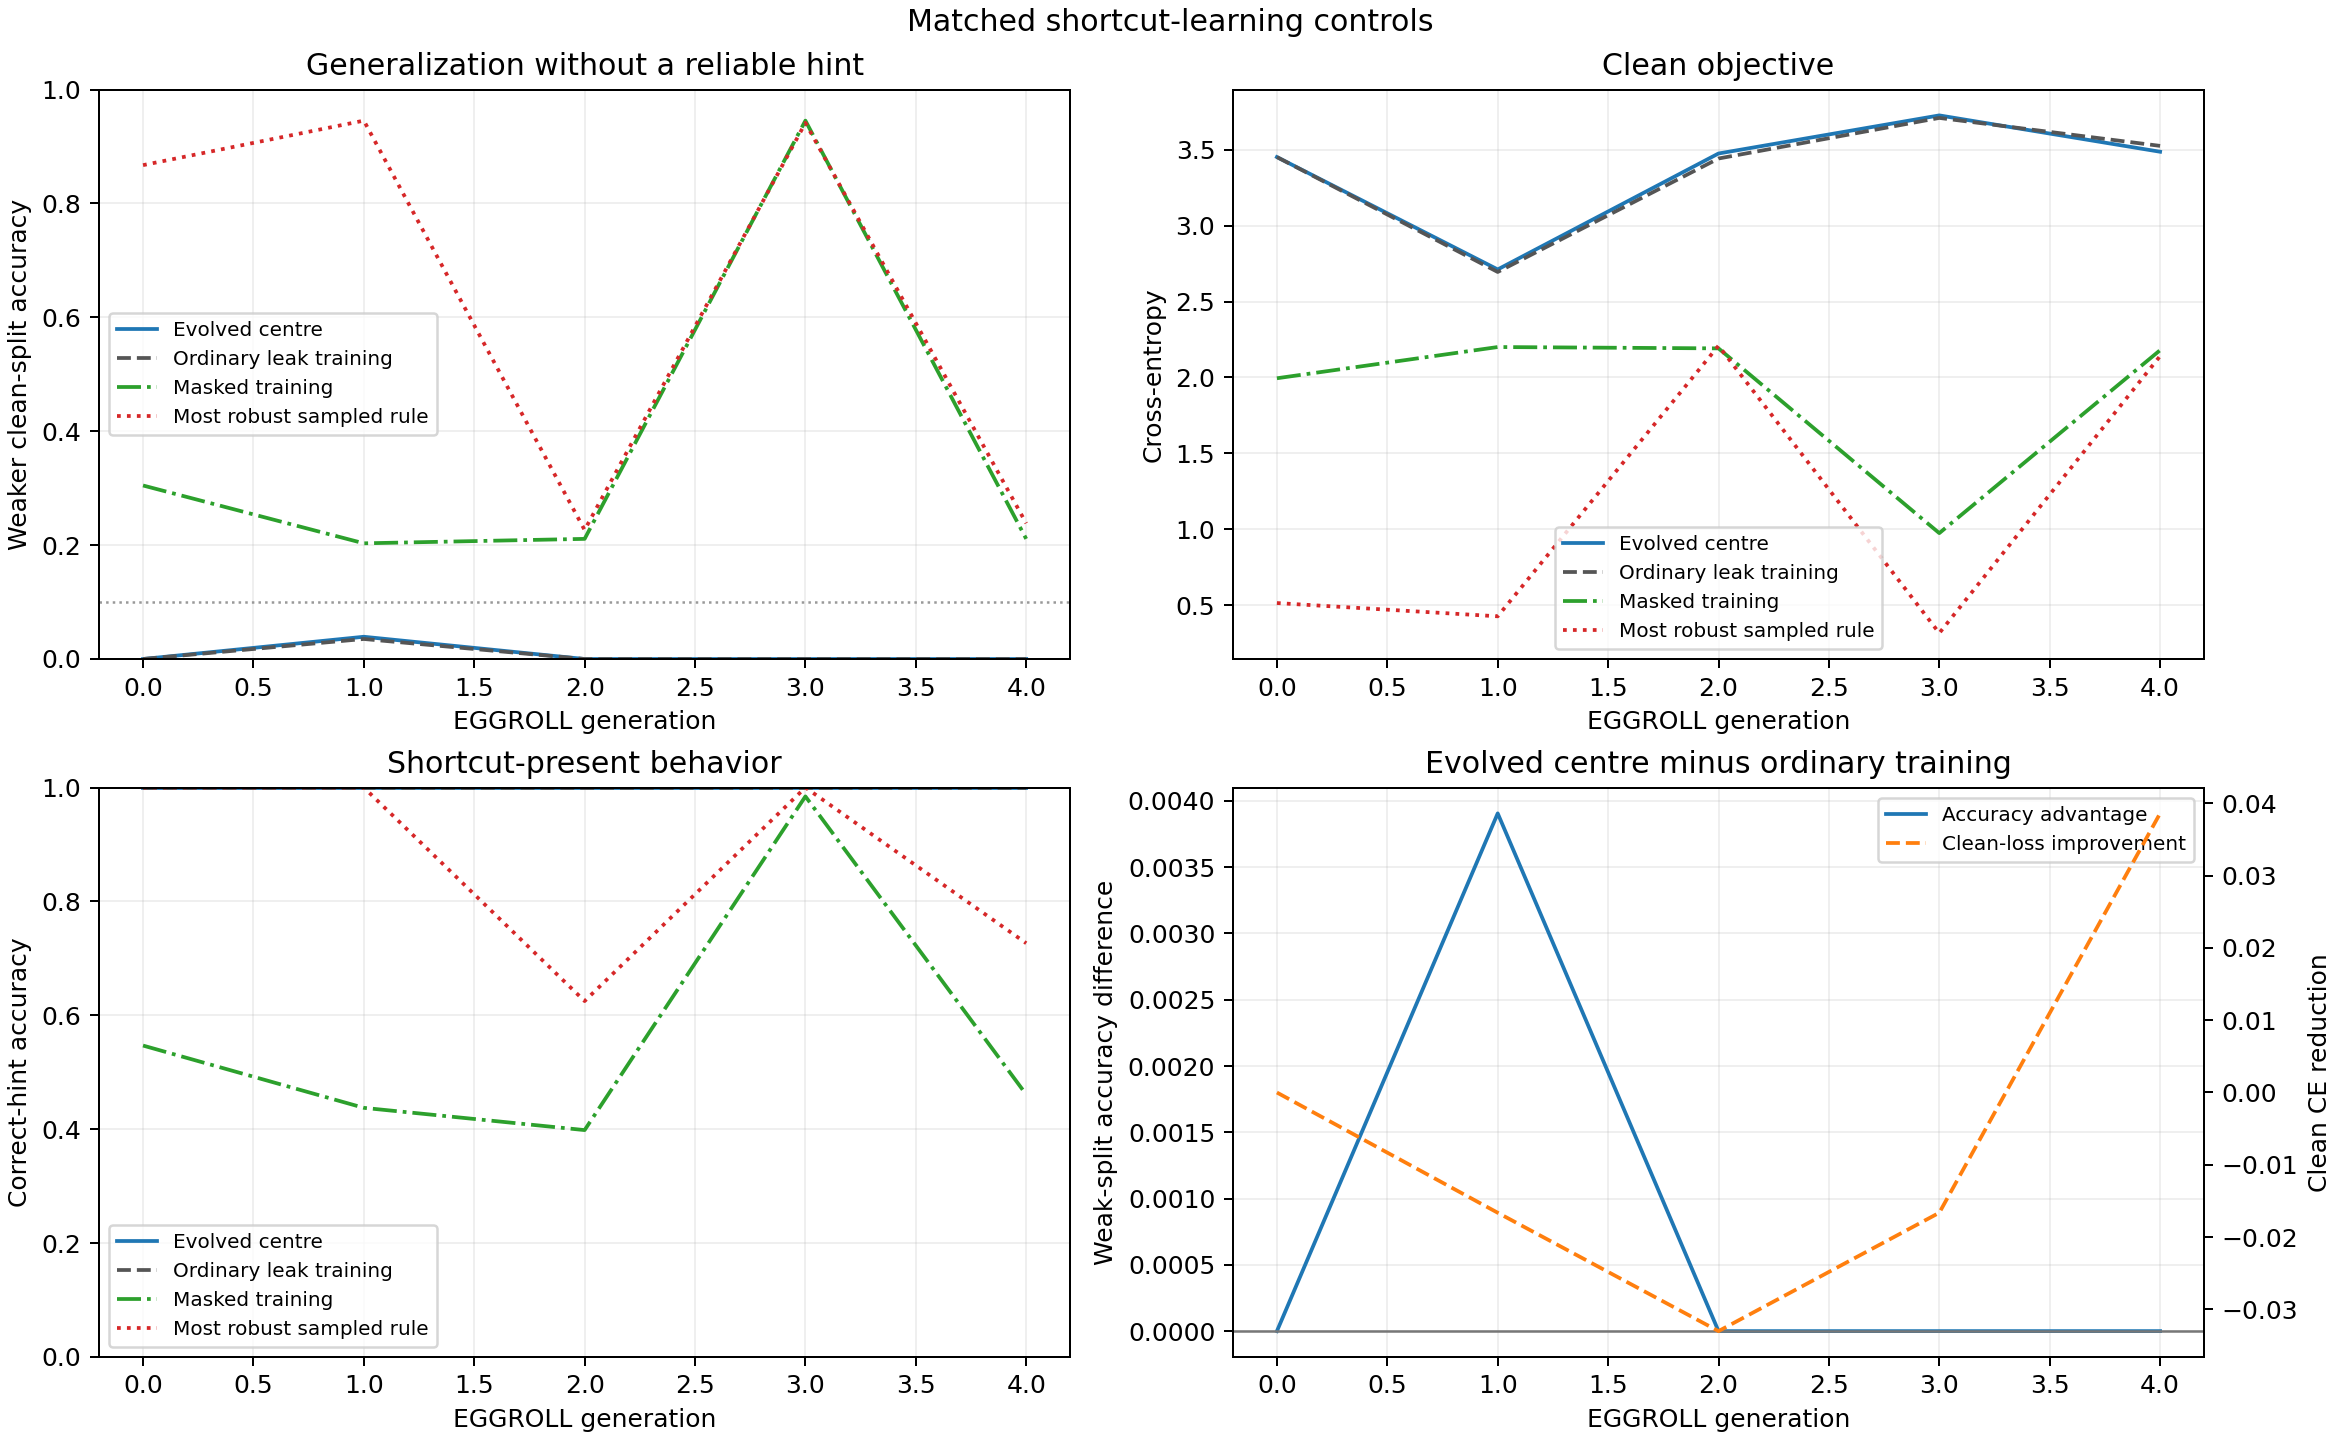
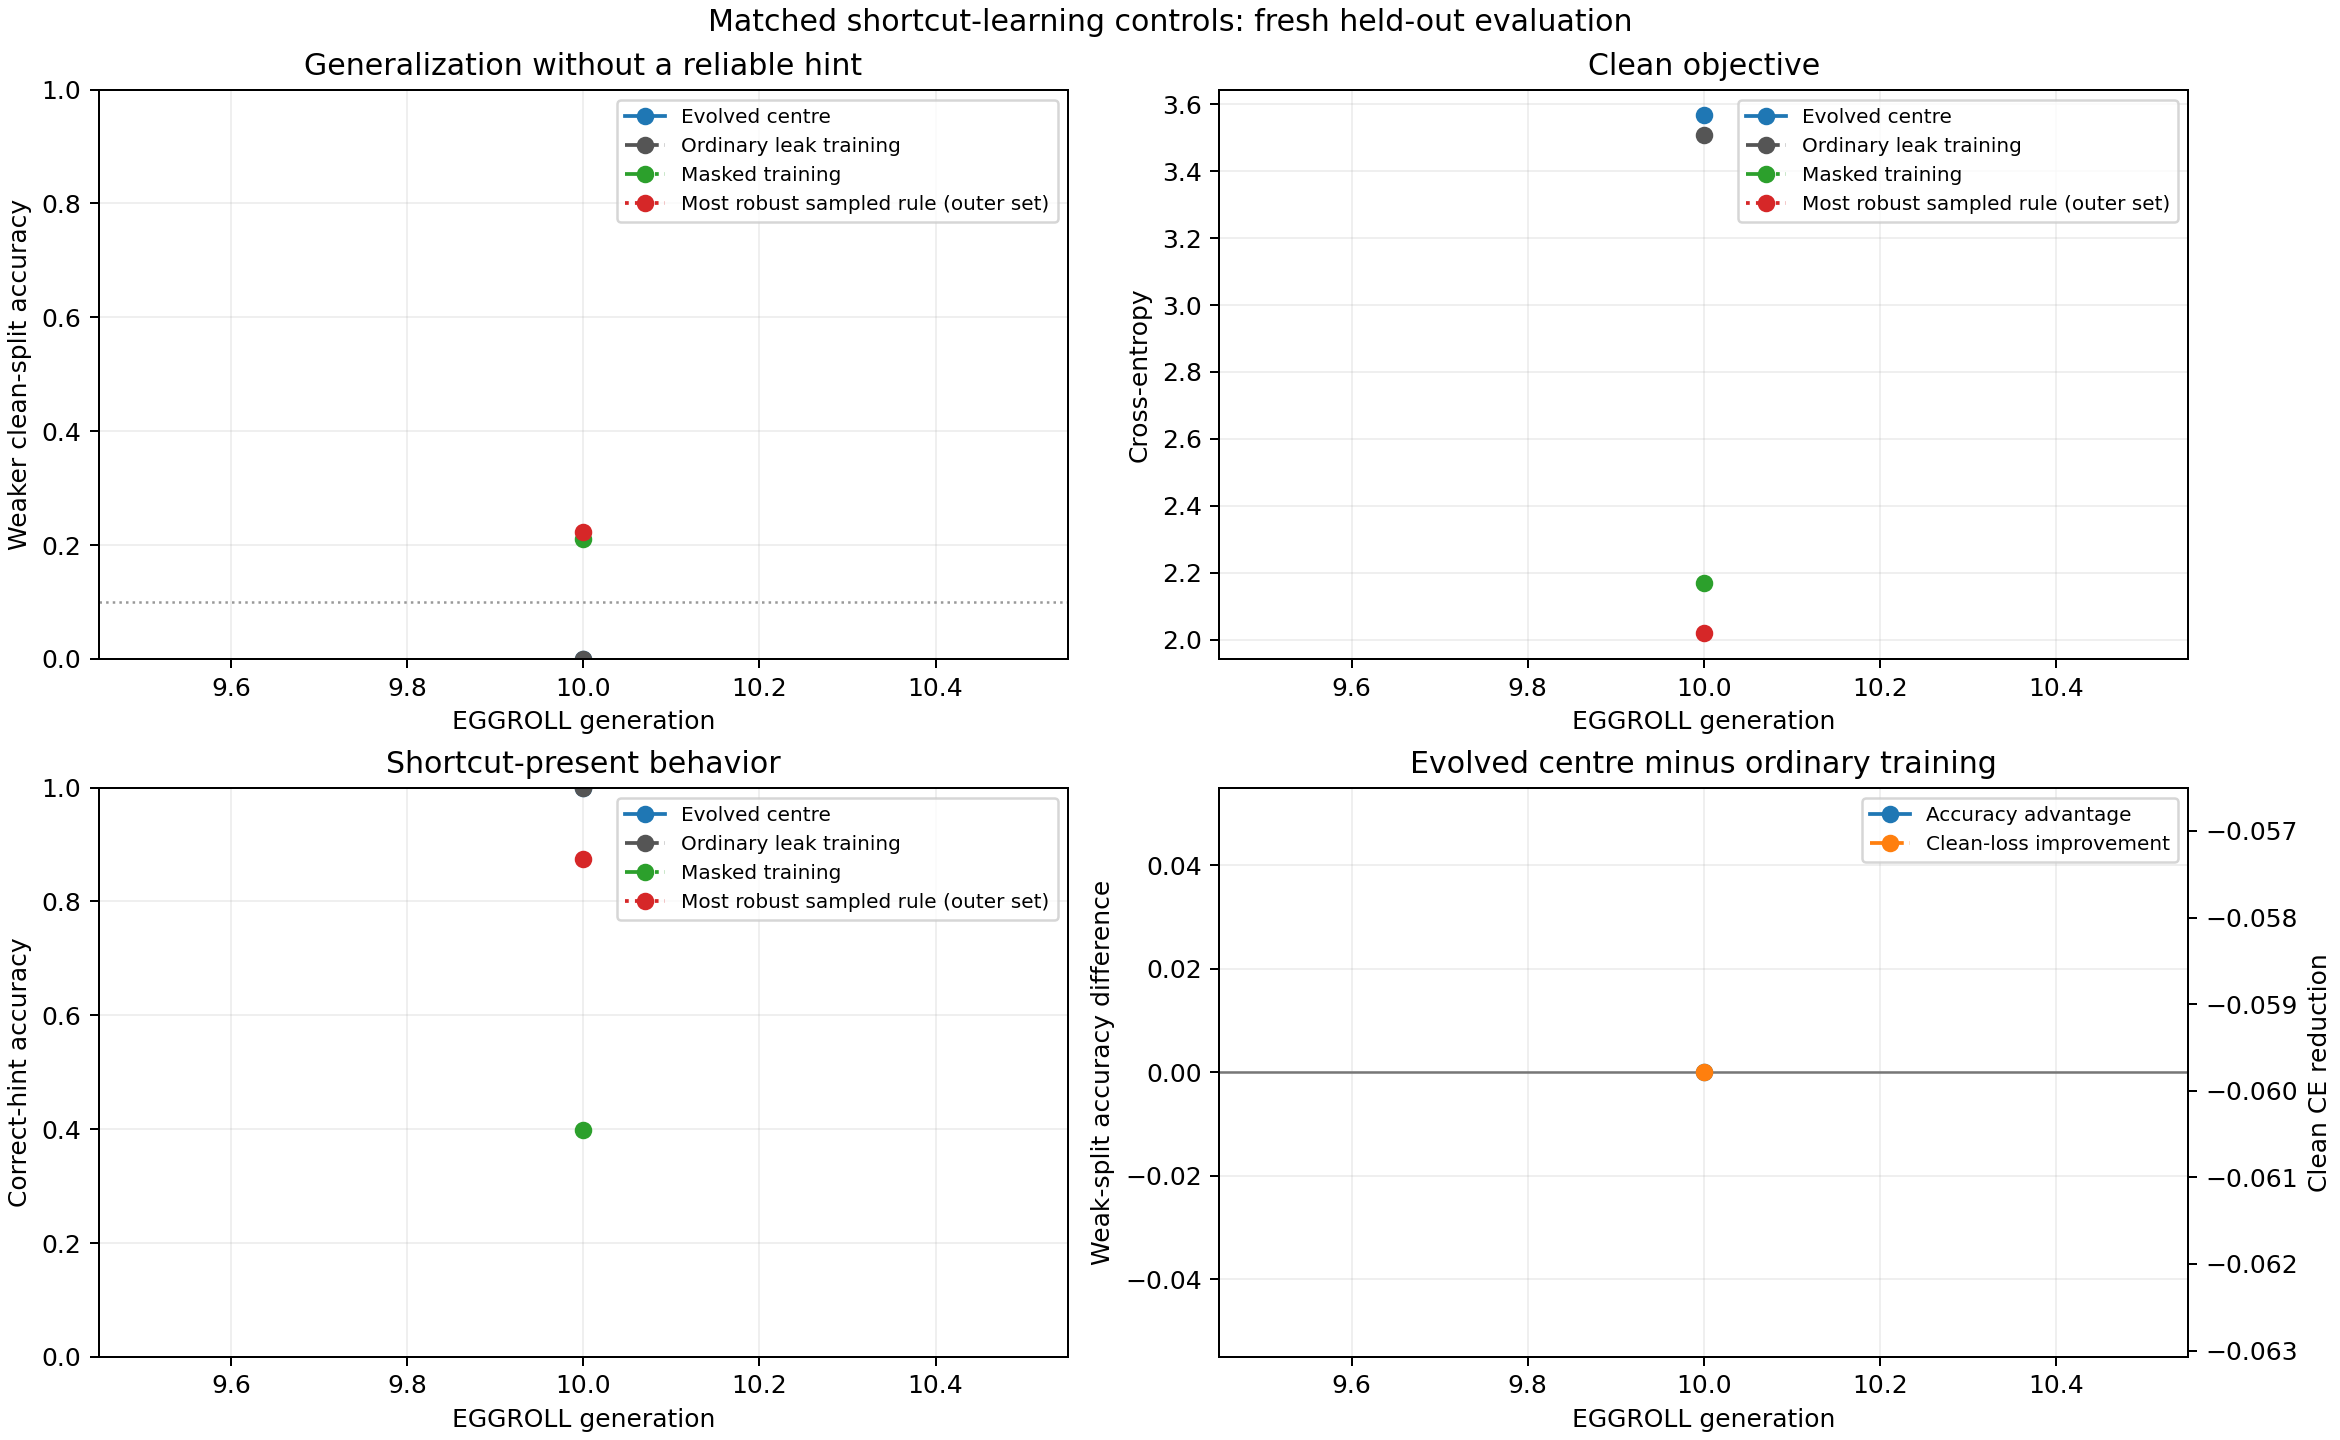
Document heldout shortcut continuation

diff --git a/src/list_sorting_transformer/shortcut_credit_compare_plot.py b/src/list_sorting_transformer/shortcut_credit_compare_plot.py
@@ -65,6 +65,8 @@ def _plot(
         if key in row
     ]
     if points:
+        if len(points) == 1 and "marker" not in kwargs:
+            kwargs["marker"] = "o"
         axis.plot(
             [generation for generation, _ in points],
             [value for _, value in points],

diff --git a/experiments/learned_backward_shortcuts/PROGRESS.md b/experiments/learned_backward_shortcuts/PROGRESS.md
@@ -1431,7 +1431,7 @@ mask that position is already a meaningful success because it enables the
 forward network to learn the actual pointer function; randomized leak
 placement is the stronger generality follow-up.
 
-The matched-control semantic run is now active:
+The matched-control semantic run reached checkpoint 10:
 
 - Run:
   [`attention-router-random-list-h160-p64-s021-outer0007-baselines-seed7`](https://wandb.ai/wobrob101/list-sorting-learned-backward/runs/59hmyzv3)
@@ -1439,6 +1439,24 @@ The matched-control semantic run is now active:
   no-routing forward trajectories per generation for the matched controls.
 - Measured runtime: approximately 117 seconds per generation on two
   RTX A4500 GPUs, including both controls.
+
+It was stopped cleanly at
+`checkpoint_000010.pt` to add an outer-loop-unseen evaluation stream. The
+outer optimization repeatedly uses the same balanced fitness set, so reporting
+only that set would not distinguish genuine distribution-level learning from
+eventual adaptation to those examples. From generation 10 onward, every
+generation therefore also samples fresh balanced masked, wrong-hint, and
+correct-hint evaluation examples. The learned centre, ordinary training, and
+masked training all use the exact same fresh examples.
+
+The active continuation is:
+
+- Run:
+  [`attention-router-random-list-h160-p64-s021-outer0007-heldout-resume10-seed7`](https://wandb.ai/wobrob101/list-sorting-learned-backward/runs/n1xq8tsr)
+- Resume source:
+  `attention-router-random-list-h160-p64-s021-outer0007-baselines-seed7/checkpoint_000010.pt`.
+- All search and training settings are unchanged; only the extra held-out
+  measurements were added.
 
 The tracked matched-control plot is regenerated from the live JSONL metrics:
 
@@ -1448,7 +1466,7 @@ The tracked matched-control plot is regenerated from the live JSONL metrics:
 PYTHONPATH=src python -m \
   list_sorting_transformer.shortcut_credit_compare_plot \
   --matched-controls \
-  artifacts/learned_backward_shortcuts/attention-router-random-list-h160-p64-s021-outer0007-baselines-seed7/metrics.jsonl \
+  artifacts/learned_backward_shortcuts/attention-router-random-list-h160-p64-s021-outer0007-heldout-resume10-seed7/metrics.jsonl \
   --output \
   experiments/learned_backward_shortcuts/results/random_list_matched_controls.png
 ```
@@ -1478,3 +1496,21 @@ far too small and early to establish centre learning. The near-perfect
 candidates show that a strong search signal remains available; later
 generations must establish whether the conservative outer updates can
 accumulate it.
+
+The first fresh held-out row, generation 10, confirms checkpoint continuity
+and does not yet show centre learning:
+
+| Rule | Outer-set masked / wrong / correct | Fresh held-out masked / wrong / correct |
+| --- | ---: | ---: |
+| Ordinary training | 17.97% / 0.0% / 100.0% | 15.23% / 0.0% / 100.0% |
+| Masked training | 19.92% / 18.36% / 41.41% | 23.05% / 21.09% / 39.84% |
+| Evolved centre | 18.75% / 0.0% / 99.22% | 12.89% / 0.0% / 100.0% |
+| Most robust candidate | 42.97% / 22.27% / 87.50% | not measured |
+
+On fresh data, the centre and ordinary training both have `0%` weaker-split
+accuracy, while the centre's clean CE is worse by `0.060`. The routing
+diagnostic also shows mean backward gate `0.716` but an all-hint-source
+relative gate of `1.000`: the centre has so far learned broad suppression,
+not preferential suppression of the moving hint. This is an early diagnostic,
+not a terminal result; the run continues so that later generations can show
+whether input-conditioned selectivity emerges.
